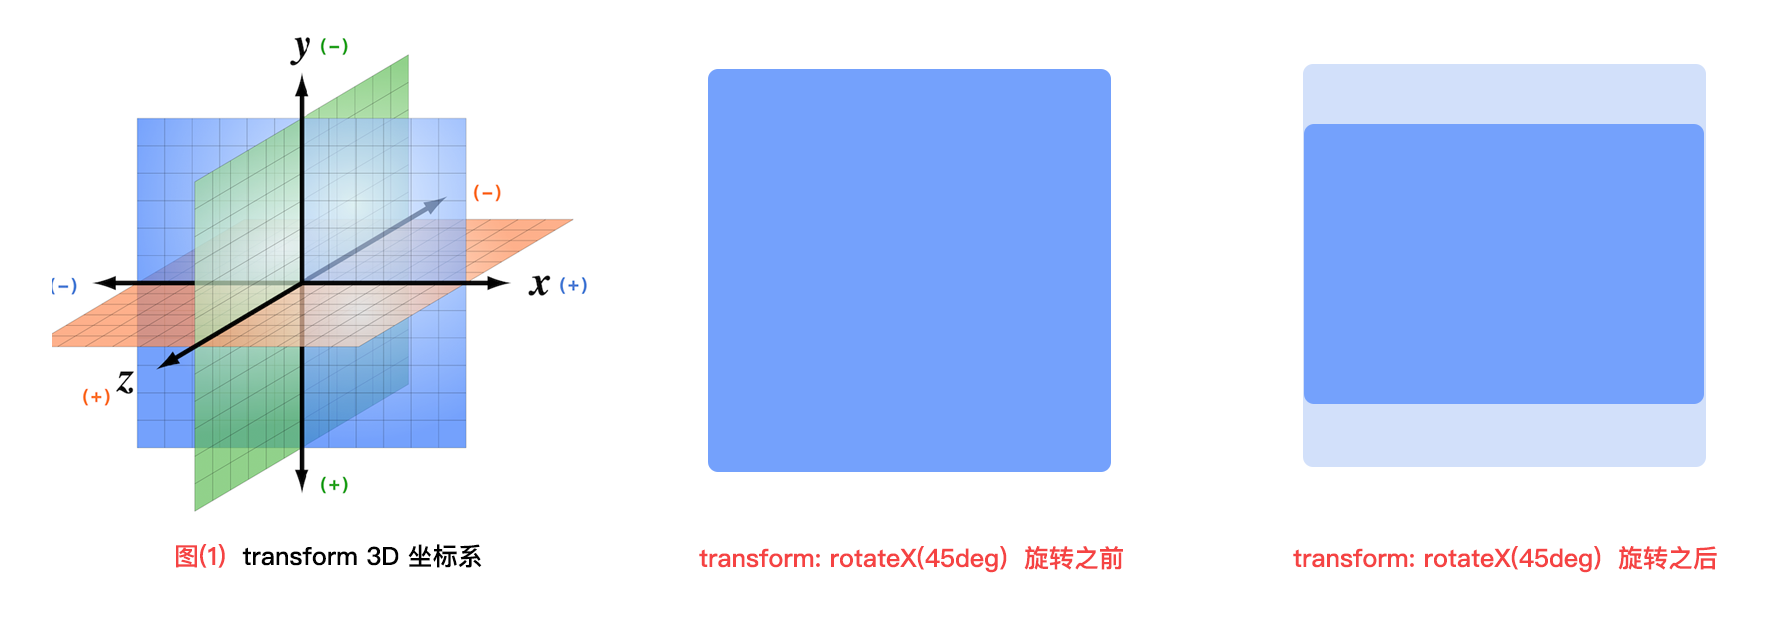
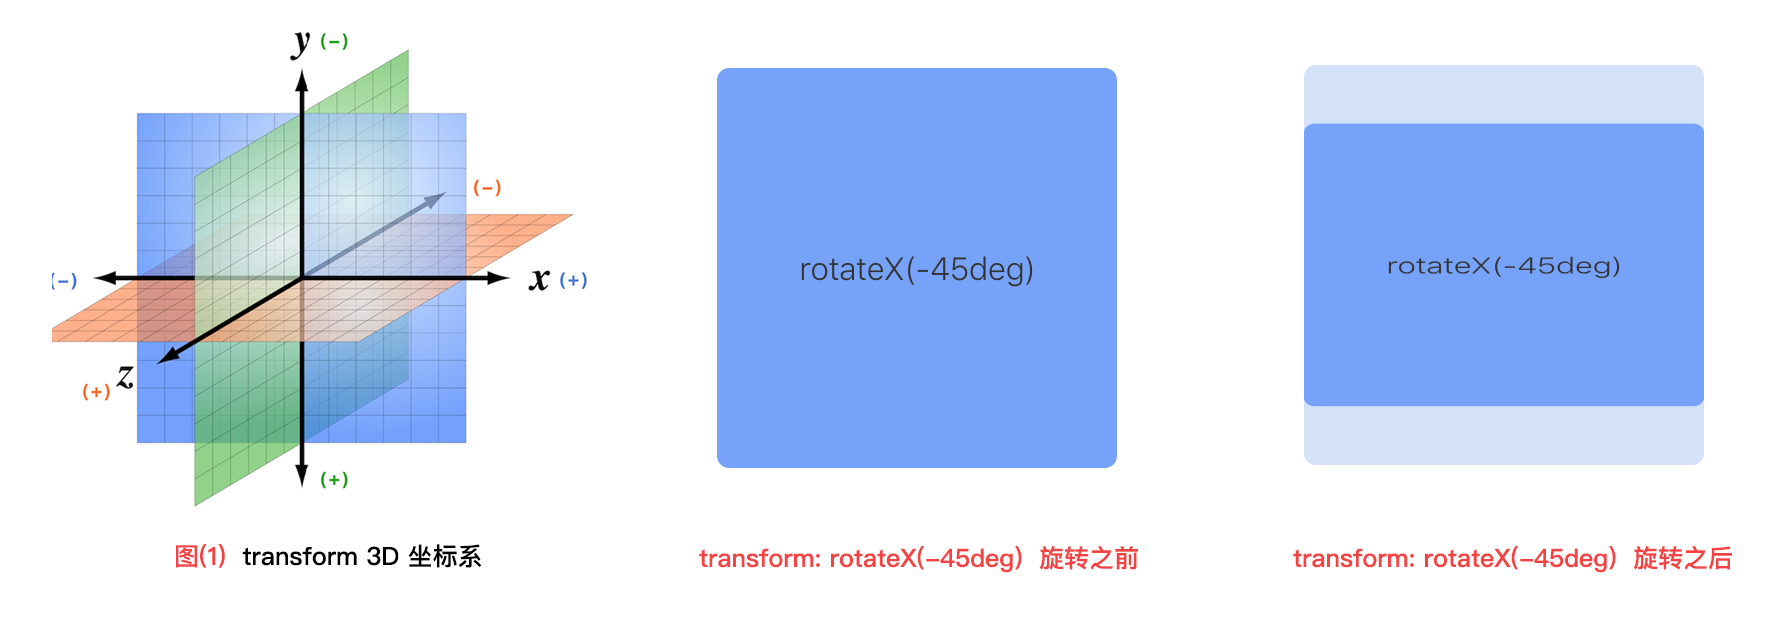
Mac edit 20200412 17:07

diff --git a/CSS3-过渡-转换-动画/过渡转换动画-Demos/transform-rotate.html b/CSS3-过渡-转换-动画/过渡转换动画-Demos/transform-rotate.html
@@ -14,7 +14,7 @@
             justify-content: space-around;
             align-items: center;
             overflow: hidden;
-            background: #e7e7e7;
+            background: #fff;
         }
         .box-packing {
             height: 12.5em;
@@ -39,40 +39,40 @@
             background-color: #74a1fc;
         }
         .container :nth-child(1) p:hover {
-            transform: rotateX(45deg);
+            transform: rotateX(-45deg);
         }
 
         .container :nth-child(2) {
-            background: #91d28b;
+            background: #c6f9c1;
         }
         .container :nth-child(2) p {
-            background-color: #226727;
+            background-color: #66cc99;
         }
         .container :nth-child(2) p:hover {
-            transform: rotateY(45deg);
+            transform: rotateY(-45deg);
         }
 
         .container :nth-child(3) {
-            background: #fcae66;
+            background: #e6cac5;
         }
         .container :nth-child(3) p {
-            background-color: #ac6342;
+            background-color: #d49488;
         }
         .container :nth-child(3) p:hover {
-            transform: rotate(45deg);
+            transform: rotateZ(-45deg);
         }
     </style>
 </head>
 <body>
     <div class="container">
         <div class="box-packing ">
-            <p class="box blue-box">rotateX(45deg)</p>
+            <p class="box blue-box">rotateX(-45deg)</p>
         </div>
         <div class="box-packing">
-            <p class="box">rotateY(45deg)</p>
+            <p class="box">rotateY(-45deg)</p>
         </div>
         <div class="box-packing">
-            <p class="box">rotateX(45deg)</p>
+            <p class="box">rotate(-45deg)</p>
         </div>
     </div>
 </body>

diff --git a/CSS3-过渡-转换-动画/过渡转换动画-Demos/transform-origin.html b/CSS3-过渡-转换-动画/过渡转换动画-Demos/transform-origin.html
@@ -32,11 +32,11 @@
             transition: all 1s;
 
             /* - 旋转时，以盒子底部的中心为坐标原点 */
-            /* transform-origin: center bottom; */
+            transform-origin: center bottom;
         }
         .box:hover {
-            /* - 鼠标悬停时让元素逆时针旋转 405 deg */
-            transform: rotateX(45deg);
+            /* - 鼠标悬停时让元素顺时针旋转 45deg */
+            transform: rotate(45deg);
         }
         .bg-box {
             z-index: 0;

diff --git a/typo.css b/typo.css
@@ -38,7 +38,7 @@ audio, canvas, video {
 
 /* 要注意表单元素并不继承父级 font 的问题 */
 body, button, input, select, textarea {
-    font: 340 1em/1.8 system-ui, -apple-system, BlinkMacSystemFont, segoe ui,
+    font: 300 1em/1.8 system-ui, -apple-system, BlinkMacSystemFont, segoe ui,
         Roboto, Helvetica, Arial, sans-serif, apple color emoji, segoe ui emoji,
         segoe ui symbol;
     /* font: 300 1em/1.8 source-code-pro, Menlo,Monaco,Consolas, 

diff --git a/CSS3-过渡-转换-动画/transition-transform-animation.md b/CSS3-过渡-转换-动画/transition-transform-animation.md
@@ -1,9 +1,9 @@
-# CSS3 过渡(transiton), 转换(transform)和动画(animation)
+# CSS3 过渡(transition), 转换(transform)和动画(animation)
 
 
 ## 目录(Table Of Contents)
 1. CSS3 transition(过渡)
-    + 1.1 transitioin(过渡)介绍
+    + 1.1 transition(过渡)介绍
     + 1.2 transition 的 4 个属性值
     + 1.3 transition 使用基本示例
     + 1.4 贝塞尔曲线讲解
@@ -35,7 +35,7 @@
       这个集装箱的容量是 1000 立方米.
 - **volume ['vɒljuːm] --n.体积; 卷; 音量.**
     + the volume of water in a lake. 湖内水的容积.
-    + He truned up[down] the volume on the television. 
+    + He turned up[down] the volume on the television. 
       他把电视机的音量调大[小]了.
     + Our school has a library of 100,000 volumes.
       我们学校有一所藏书十万册的图书馆
@@ -66,7 +66,7 @@
     + Can you translate(vt) an English sentence into Japanese?
       你能把把英文句子翻译成日文?
     + How would you translate(vt) his conduct? 你如何解释它的举动呢?
-    + I transalted(vt) his silence as a refusal.
+    + I translated(vt) his silence as a refusal.
       我把它的缄默解释为拒接.
     + I could hardly translate(vt) my thoughts into words.
       我几乎不能把我的想法用言语表达出来.
@@ -84,7 +84,7 @@
 
 ## 内容(Content)
 ### 1. CSS3 transition(过渡)
-#### 1.1 transitioin(过渡)介绍
+#### 1.1 transition(过渡)介绍
 - CSS3 的 transition(属性) 允许元素的 css 属性值在一定的时间内在不同状态之间平滑过渡
   (补间动画), 经常用来制作动画效果.
     + 补间动画: 自动完成从起始状态到终止状态的过渡. 不用管中间的状态.
@@ -178,11 +178,11 @@
          *   伪类被移除,其内部的所有属性也被移除. 
          */
         transition: all 2s;
-        }
-        .box:hover {
-            /* - 鼠标悬停时让元素逆时针旋转 405 deg */
-            transform: rotate(-405deg);
-        }
+    }
+    .box:hover {
+        /* - 鼠标悬停时让元素逆时针旋转 405 deg */
+        transform: rotate(-405deg);
+    }
   ```
   
 
@@ -195,12 +195,12 @@
       终止点(也称锚点)和控制点组成, 通过调整控制点,
       通过一定方式绘制的贝塞尔曲线形状会发生变化. 后面会具体介绍绘制的方法.
     
-      在计算机图形学中贝赛尔曲线的运用很广泛, 例如 Photoshop 中的钢笔效果, Flash5
+      在计算机图形学中贝赛尔曲线的运用很广泛, 例如 PhotoShop 中的钢笔效果, Flash5
       的贝塞尔曲线工具, 在软件 GUI 开发中一般也会提供对应的方法来实现贝赛尔曲线,
       我们熟知的 CSS 动画(animation)/过渡(transition)
-      时间函数也是通过贝塞尔曲线(三阶贝塞尔曲线)获取的.
+      的时间函数(xxx-timing-function)也是通过贝塞尔曲线(三阶贝塞尔曲线)获取的.
     
-      在 `1.2 过渡属性` 的 `transition-timing-function(过渡时间函数)`
+      上面 `1.2 过渡属性` 的 `transition-timing-function(过渡时间函数)`
       属性中这个 `cubic-bezier` 就是 **三阶贝塞尔曲线**,
       主要是为 `transition`, `animation` 生成速度曲线的函数, 规定是:
       `cubic-bezier(<x1>, <y1>, <x2>, <y2>)`.
@@ -229,48 +229,43 @@
       [此文](https://juejin.im/post/5b854e1451882542fe28a53d)
   
 - 1.4.2 使用示例
-    + 测试示例:
-      ```html
-        <!DOCTYPE html>
-        <html lang="zh-cn">
-        <head>
-            <meta charset="UTF-8">
-            <title>Document</title>
-            <style>
-                .transform {
-                    width: 50px;
-                    height: 50px;
-                    background-color: #ed3;
-                    -webkit-transition:  all 2s;
-                            transition:  all 2s;
-                }
-                .transform:hover {
-                    /* - transform (转换) 下面会讲 */
-                    -webkit-transform:  translateX(100px);
-                            transform:  translateX(100px);
-                }
-            </style>
-        </head>
-        <body>
-            <div class="transform"></div>
-        </body>
-        </html>
-      ```
-      我们可以在浏览器中看到, 当鼠标移到元素上时, 元素开始向右移动, 开始比较慢, 
-      之后则比较快, 移开时按原曲线回到原点. 
-    
-      你也可以更该贝塞尔曲线的值, 例如:
-      `transition:  all 2s cubic-bezier(.17, .86, .73, .14);`
-      自行在浏览器中查看运行效果.
+  ```html
+    <!DOCTYPE html>
+    <html lang="zh-cn">
+    <head>
+        <meta charset="UTF-8">
+        <title>Document</title>
+        <style>
+            .transform {
+                width: 50px;
+                height: 50px;
+                background-color: #ed3;
+                -webkit-transition:  all 2s;
+                        transition:  all 2s;
+            }
+            .transform:hover {
+                /* - transform (转换) 下面会讲 */
+                -webkit-transform:  translateX(100px);
+                        transform:  translateX(100px);
+            }
+        </style>
+    </head>
+    <body>
+        <div class="transform"></div>
+    </body>
+    </html>
+  ```
+  我们可以在浏览器中看到, 当鼠标移到元素上时, 元素开始向右移动, 开始比较慢, 
+  之后则比较快, 移开时按原曲线回到原点. 
+
+  你也可以更该贝塞尔曲线的值, 例如:
+  `transition:  all 2s cubic-bezier(.17, .86, .73, .14);`
+  自行在浏览器中查看运行效果. 
 
 
 ### 2. CSS3 transform(转换)
-- 参考文章有:
-    + [CSS3动画详解(图文教程)](https://www.cnblogs.com/qianguyihao/p/8435182.html)
-    + [3D坐标系统](http://materliu.github.io/Programming-3D-Applications-With-HTML5-and-WebGL/Chapter1-Introduction/3D-Coordinate-Systems.html)
-    + [学会使用CSS3 transform 变形](https://juejin.im/post/5d0fe233e51d4550bf1ae888#heading-17)
 #### 2.1 transform 是什么?
-- transform(转换)是 CSS3 中具有颠覆性的一个特性, 可以实现元素的
+- transform(转换)是 CSS3 中具有颠覆性的一个特性, 它可以实现元素的
   `位移(translate)`, `旋转(rotate)`, `倾斜(skew)`, `缩放(scale)`,
   甚至支持矩阵方式.
 
@@ -322,7 +317,7 @@
       
       用图表示右手定则, 如下所示:
 
-      <img src="./images/right-handed-coorination.png"
+      <img src="./images/right-handed-coordination.png"
             style="margin-left: 0; width: 50%;">
 - **transform 3D 坐标系**
     + 在 2D Canvas API 和 CSS transform(转换)中,
@@ -331,7 +326,7 @@
       上面的关于浏览器原点坐标的的截图中, y 轴的正向也是向下的,
       你可能会问, 为什么在 2D Canvas 和 CSS 中 y 轴都是正向在下,
       实际上这是因为它们都是基于 HTML 的 y 轴正向向下的坐标约定,
-      而这个约定本身是使用的 windows 系统的坐标体系的后代. 
+      而这个约定本身是使用 windows 系统的坐标体系的后代. 
 
       <img src="./images/transform-3d-coordinate.png"
         style="margin-left: 0; border-radius: 4px; width: 66%;
@@ -351,43 +346,85 @@
         - 参数取值: 大于 **1** 放大, 小于 **1** 缩小. 不能为百分比.
           例如: `transform: scale(2, 0.5);`.
     + (3) `transform: rotate(角度)` 旋转
-        - 参数: 表示旋转角度, 单位是 `deg`; 正值--顺时针旋转, 负值--逆时针旋转.
-          示例: [./过渡转化动画-Demos/transform-rotate.html](File:///Users/WANG/Github-clone/CSS-grocery/CSS3-过渡-转换-动画/过渡转化动画-Demos/transform-rotate.html)
+        - 参数: 表示旋转角度, 单位是 `deg`; **正值--顺时针旋转**,
+          **负值--逆时针旋转**.  
+          示例: [./过渡转换动画-Demos/transform-rotate.html](File:///Users/WANG/Github-clone/CSS-grocery/CSS3-过渡-转换-动画/过渡转换动画-Demos/transform-rotate.html)
         - 可能会有一部分小伙伴跟我一样, 感觉 `rotateX()`, `rotateY()`,
-          `rotate()` 应该是这么这么旋转的, 一看示例就蒙圈,
-          在此试着用图文的方式讲解一下旋转的过程.
-        
-          (1) 我们先看 `rotateX(45deg)` 的旋转效果图:
+          `rotate()` 在脑里设想应该是怎样怎样旋转的, 但是一看示例瞬间蒙圈,
+          最纳闷的是在 google 搜索也没有很全面的讲解; 鉴于此,
+          此处就试着用图文的方式讲解一下旋转的过程; 若有错误之处, 请大神留言,
+          一定及时更改.(抱拳)
+
+          **(3-1)** 我们先看 `rotateX(-45deg)` 的旋转效果图:
           
           <img src="./images/rotateX.png"
-                style="margin-left: 0; border-radius: 4px;
-                    box-shadow: 1px 1px 3px 2px #e5e5e5">
-              
-          是不是仍然不太明白为什么绕 `x` 轴旋转后, 最后 box 却是纵向缩小了?
-              
+              style="margin-left: 0; border-radius: 4px;
+                  box-shadow: 1px 1px 3px 2px #e5e5e5">
+          
+          看了上图可能不太明白为什么绕 `x` 轴旋转后, 最后 box 却是纵向缩小了?
+          
           实际上是因为, 这种旋转是根据 "图(1) 3D 坐标系" 来实现的,
           我们根据下图来解说一下:
 
           <img src="./images/rotate-x-axis.png"
-                style="margin-left: 0; border-radius: 4px;
-                    box-shadow: 1px 1px 3px 2px #e5e5e5">
-          
+              style="margin-left: 0; border-radius: 4px;
+                  box-shadow: 1px 1px 3px 2px #e5e5e5">
+        
           上图是一个绕 `x` 轴旋转的图示. 假设我们需要从点 `(x, y, z)` 绕 `x`
           轴旋转 $\theta$ 角到点 `(x', y', z')`, 那么, 旋转过程中, `x`
           的坐标值始终都是固定不变的. 因此, 我们可以把它当做是在 `x = x'`
-          这个平面上进行旋转, 从而退化成一个 2D 旋转的问题. 上图右边的 2 个矩阵,
-          上面那个是 2D 旋转矩阵, 而地下那个只是把该矩阵延伸到 3D 空间而已
+          这个平面上进行的旋转, 从而退化成一个 2D 旋转的问题. 上图右边的 2 个矩阵,
+          上面是 2D 旋转矩阵, 下面的只是把该矩阵延伸到 3D 空间而已. 因为 `x`
+          轴是旋转轴, 实际上是在 `yOz` 平面上做 2D 旋转. (tip: 此段笔记来自
+          [3D中的旋转变换](https://jermmy.xyz/2017/03/28/2017-3-28-rotate-in-3D/)).
 
-        - rotate 旋转时, 默认是以盒子的正中心为坐标原点的.
+          <img src="./images/2d-rotateX.png"
+              style="margin-left: 0; border-radius: 4px;
+                  box-shadow: 1px 1px 3px 2px #e5e5e5">
+
+          上图是在 Geogebra resource 看到的
+          [Angle between Two Planes(面面角)](https://www.geogebra.org/m/svWvwpvA)
+          的示例, 虽然这个示例和咱们的旋转示例不太吻合, 但是用来解释上面的
+          `(x, y, z)` 绕 `x` 轴旋转 $\theta$ 角到点 `(x', y', z')`
+          的运行轨迹我觉得更明了, 我们可以把图中的 `QP` 当做 `x` 轴,
+          从这个图的角度是不是已经可以理解 `rotateX` 了?!!         
+          
+          **(3-2)** 接着来看 `rotateY(-45deg)` 的旋转效果:
+
+          <img src="./images/rotateY.png"
+              style="margin-left: 0; border-radius: 4px;
+                  box-shadow: 1px 1px 3px 2px #e5e5e5">
+
+          旋转路径如下图:
+
+          <img src="./images/rotate-y-axis.png"
+              style="margin-left: 0; border-radius: 4px;
+                  box-shadow: 1px 1px 3px 2px #e5e5e5">
+
+          观察图中的 `θ` 角应该可以看出旋转过程, 此处就省略叙述了.
+          
+          **(3-3)** 最后来看 `rotateZ(-45deg)` 的旋转效果:
+
+          <img src="./images/rotate.png"
+                style="margin-left: 0; border-radius: 4px;
+                    box-shadow: 1px 1px 3px 2px #e5e5e5">
+
+          旋转路径如下图:
+
+          <img src="./images/rotate-z-axis.png"
+                style="margin-left: 0; border-radius: 4px;
+                    box-shadow: 1px 1px 3px 2px #e5e5e5">
+
+        - **Notice:** rotate 旋转时, 默认是以盒子的正中心为坐标原点的.
           如果想**改变元素旋转的坐标原点**, 可以用 `transform-origin` 属性. 格式如下:
           `transform-origin: 水平坐标 垂直坐标`.
 
           例如: `transform-origin: 50px 50px;` /
           `transform-origin: center bottom;`
           
-          示例见: `./过渡转化动画-Demos/transform-origin.html`
+          示例见: `./过渡转换动画-Demos/transform-origin.html`
     + (4) `transform: skew(角度)` 倾斜
-      
+        
         - 参数: 和 (3) 中的参数一致. 
 
 #### 2.4 通过 transform 实现 3D 转换
